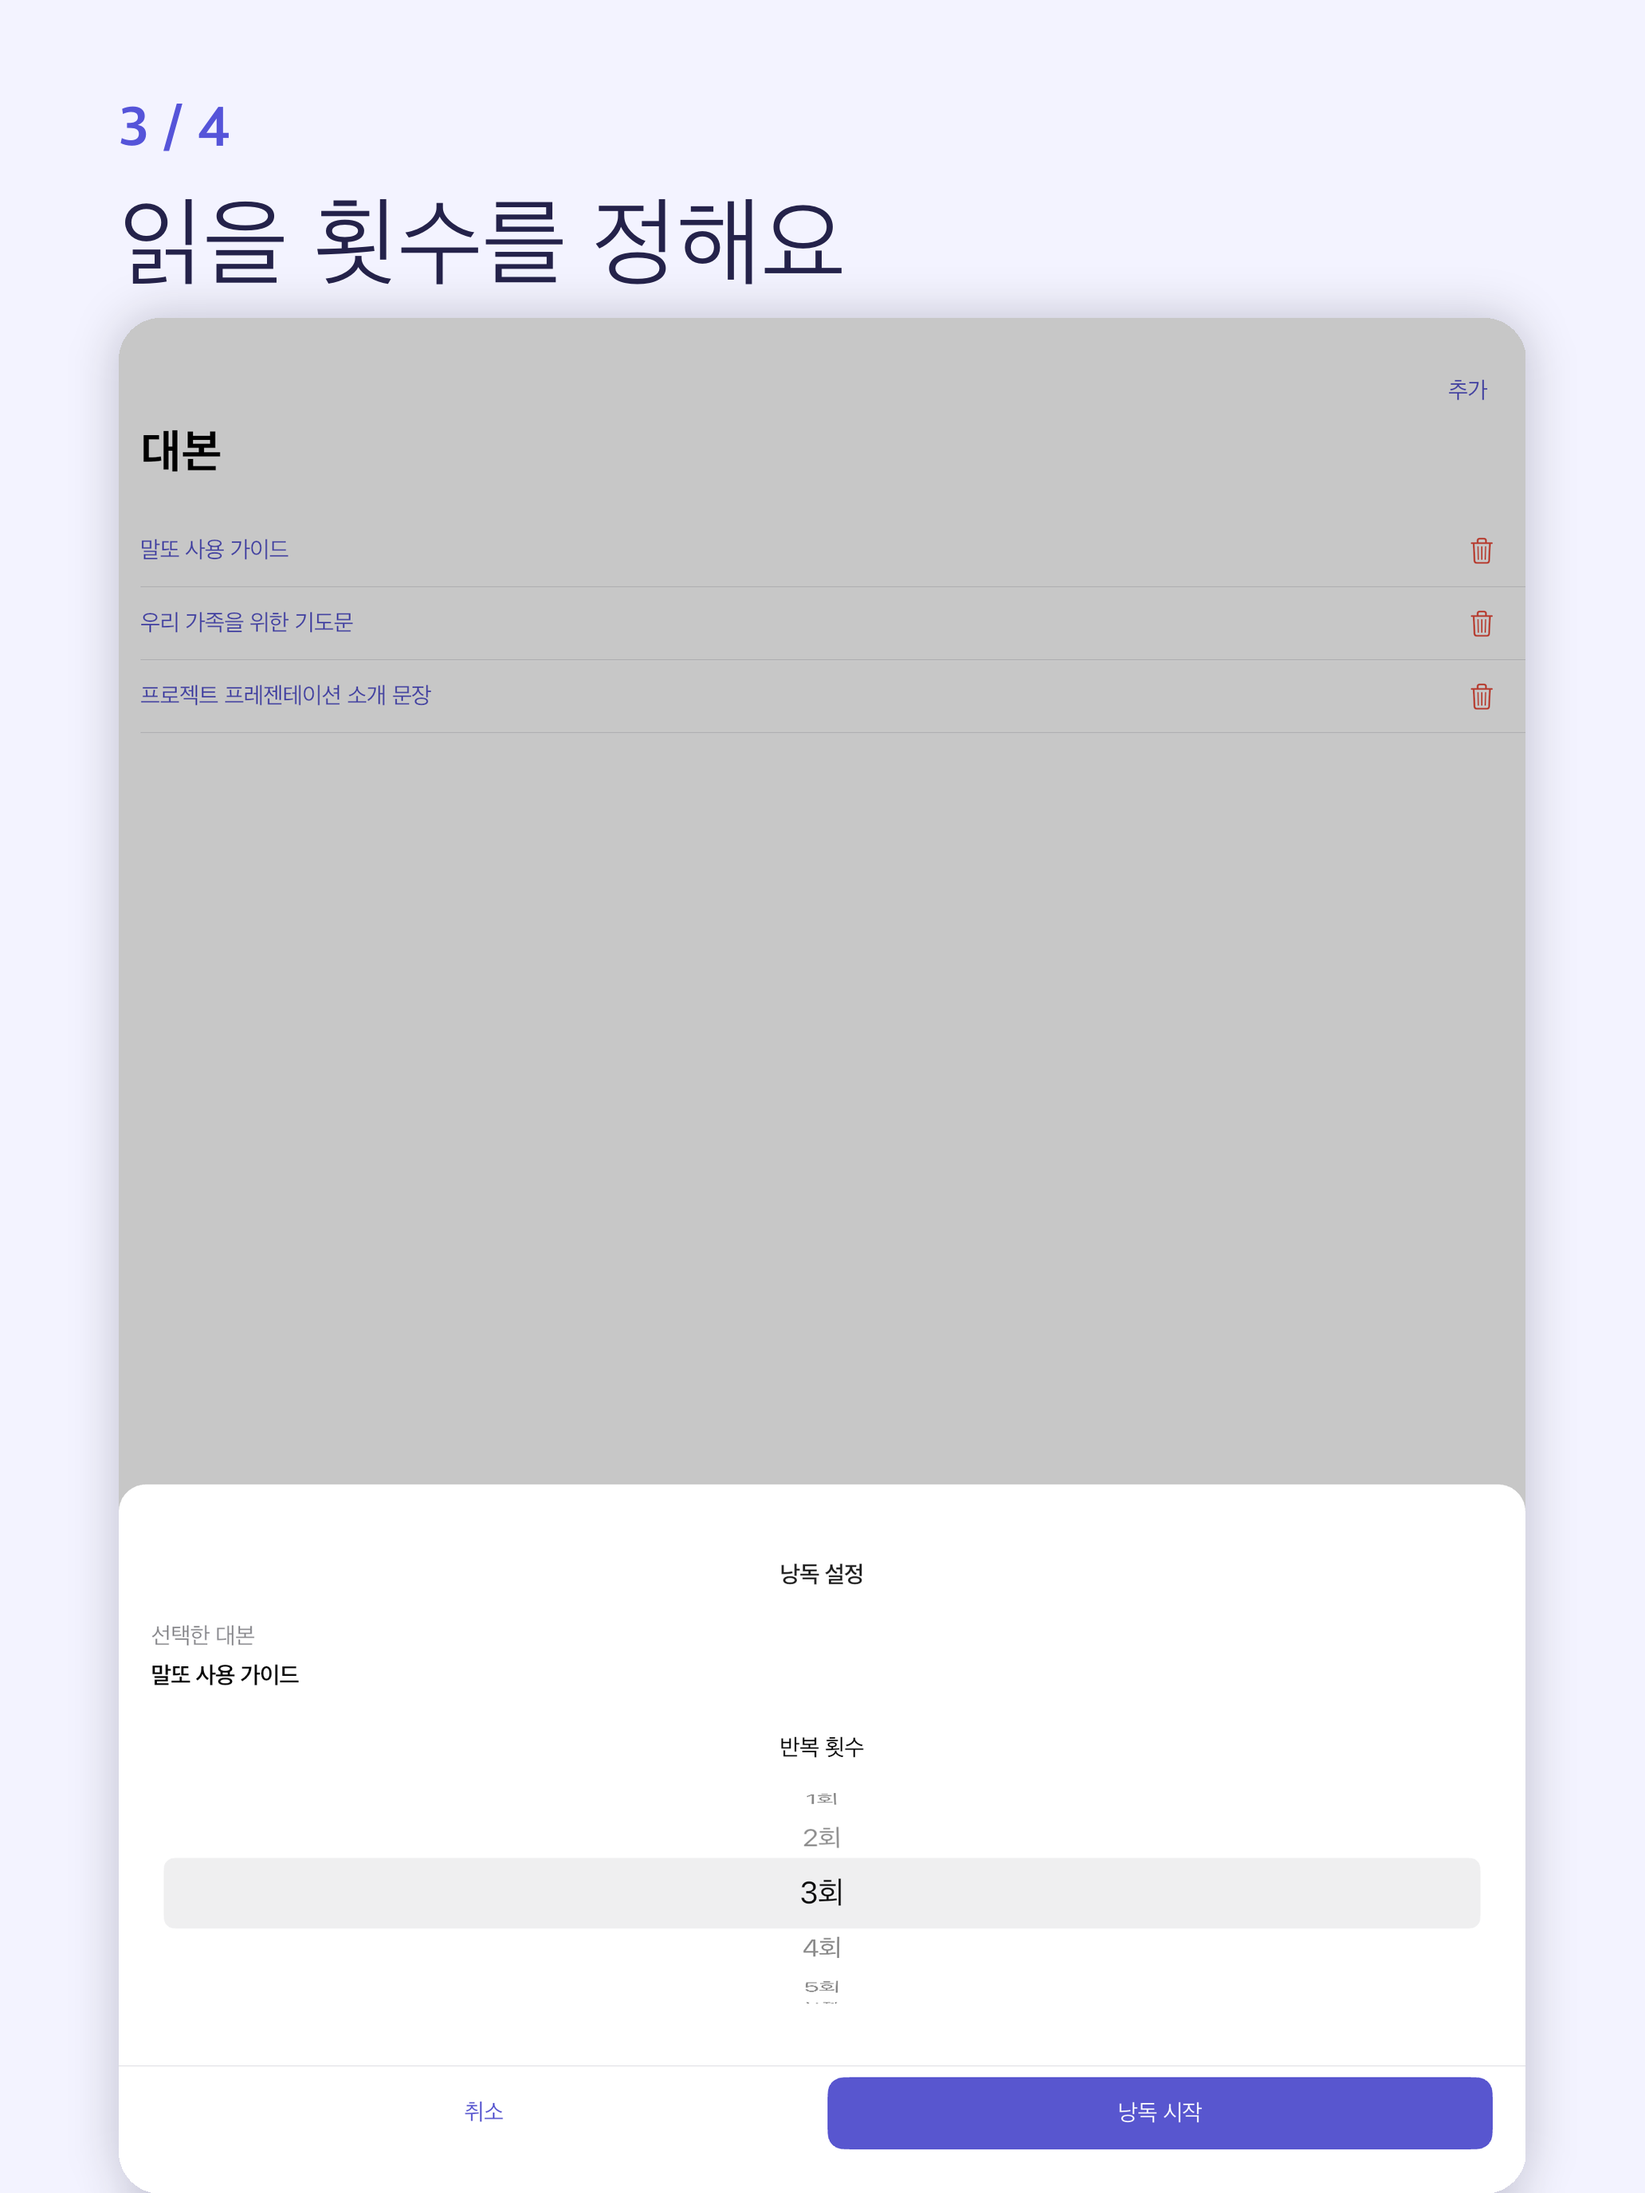
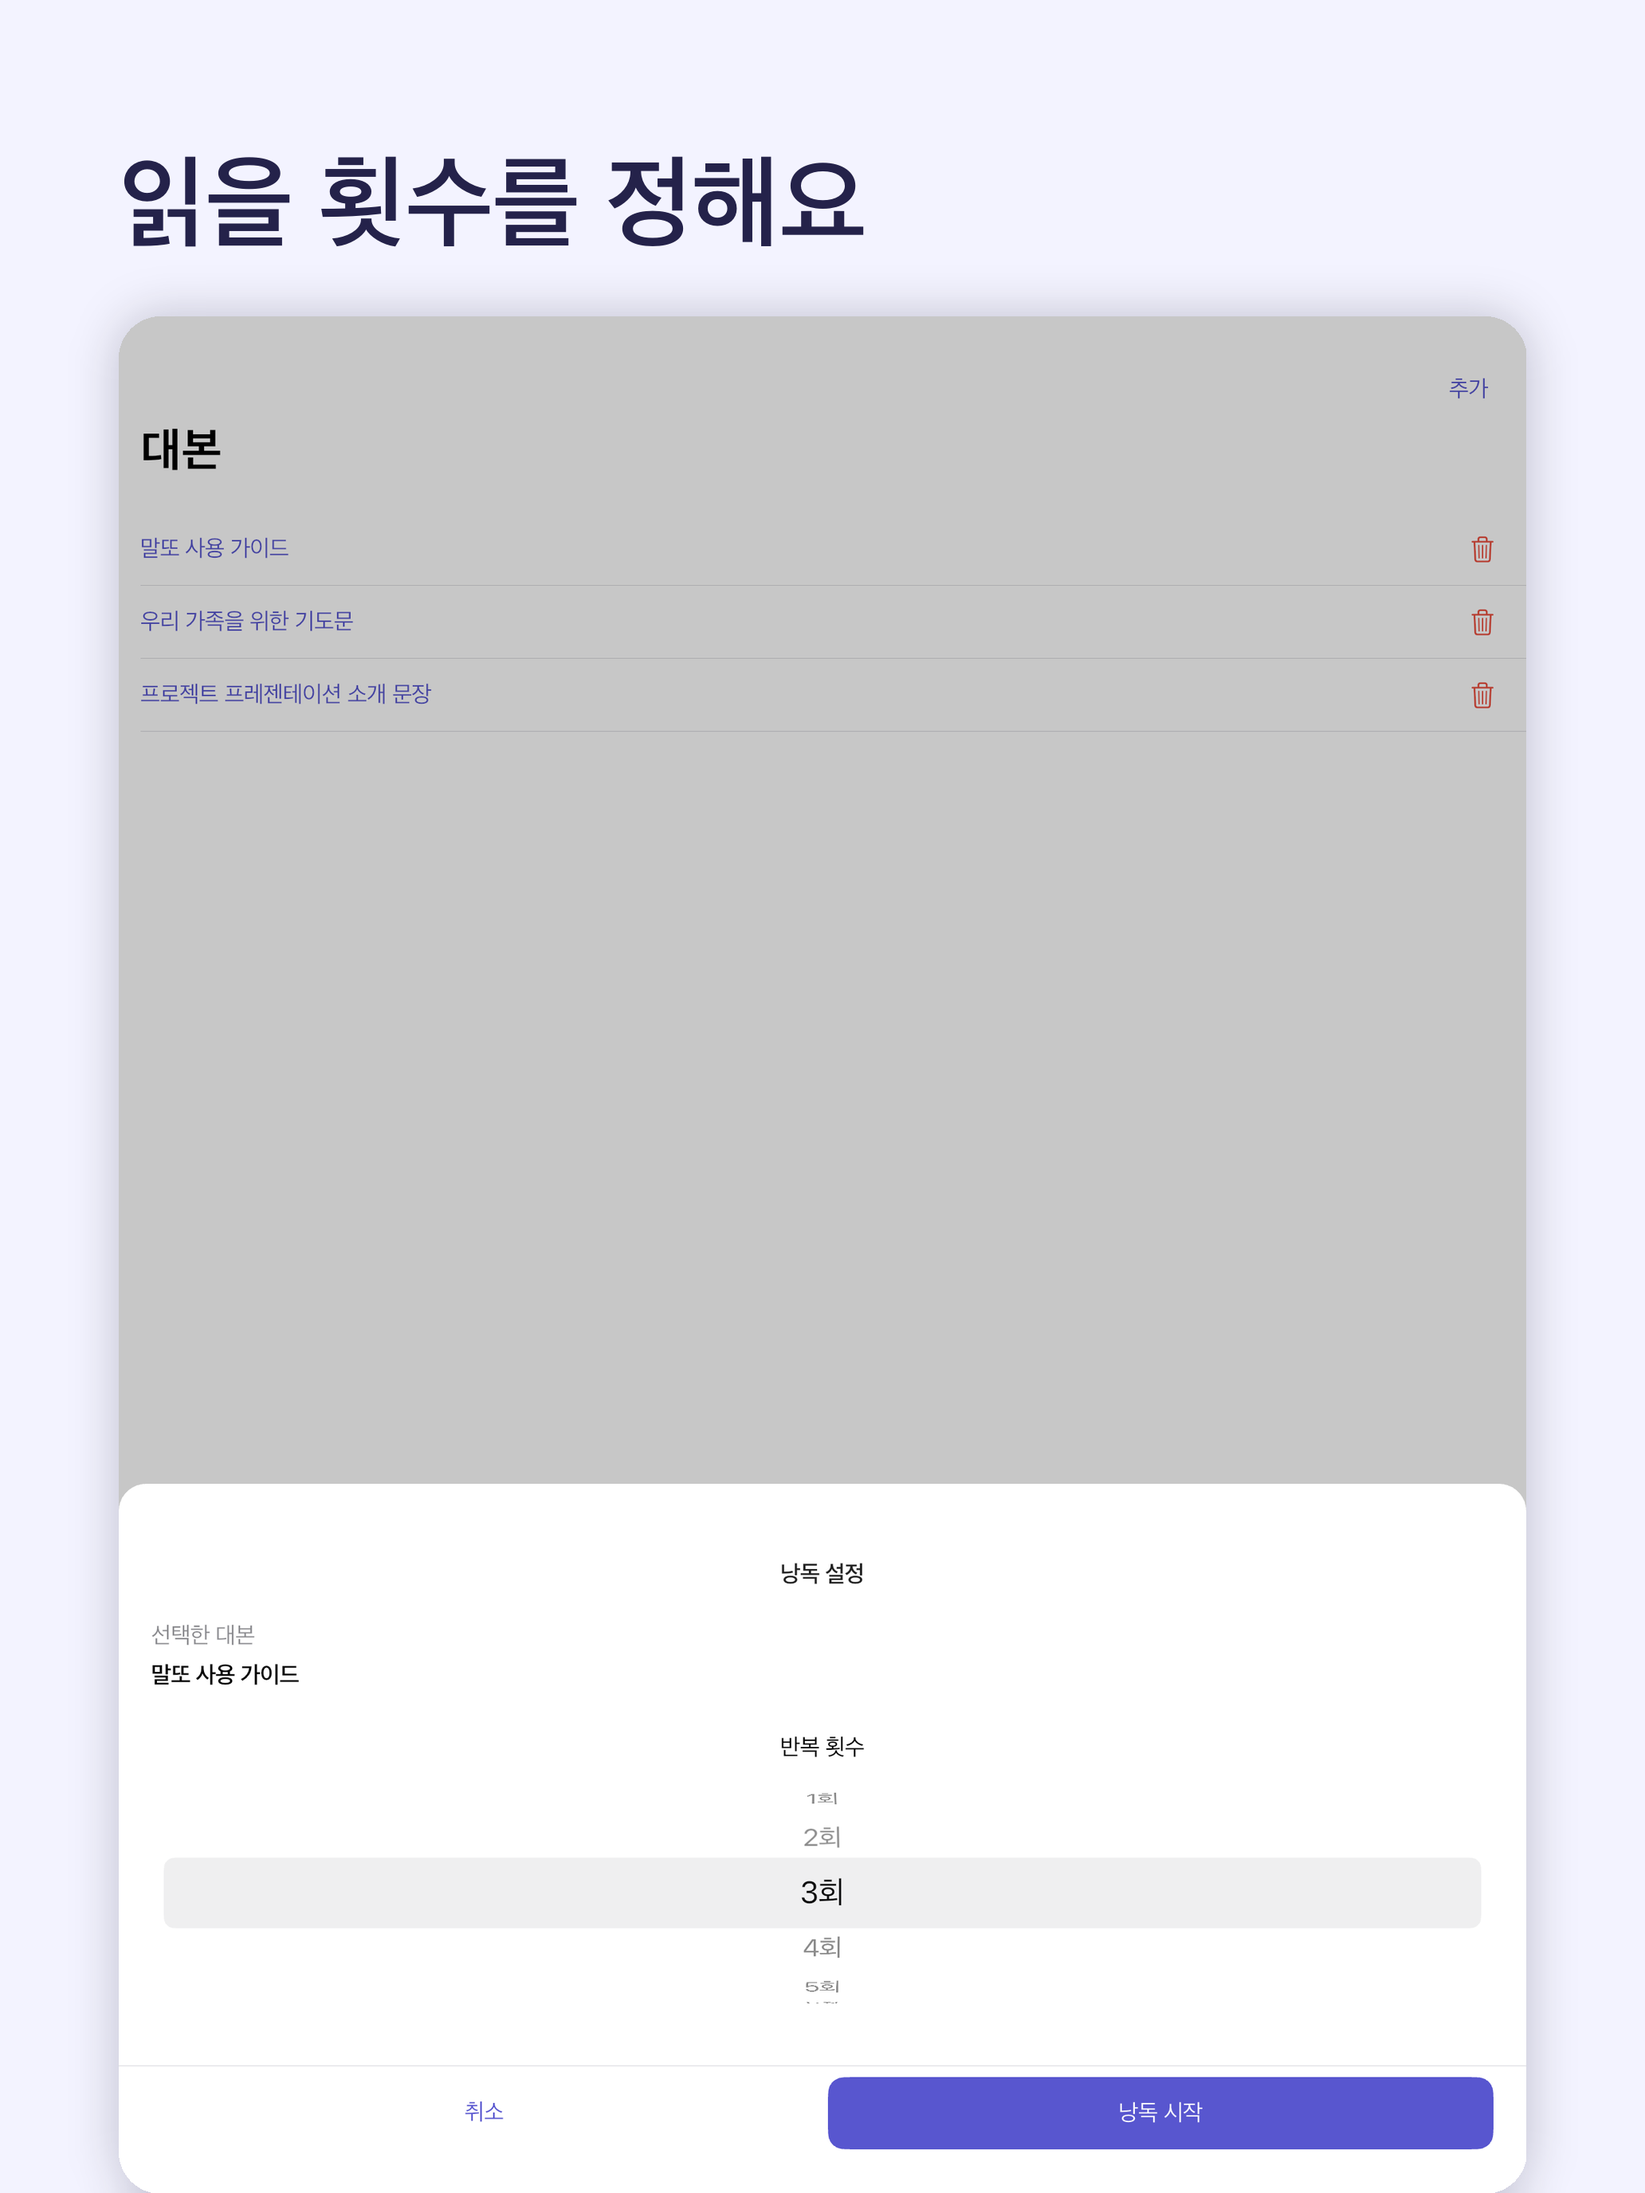
fix: Code Review 2

Changed region(s): [[0.062, 0.0312, 0.5271, 0.1562], [0.093, 0.25, 0.155, 0.3438], [0.093, 0.1875, 0.124, 0.2188]]

diff --git a/tool/store_assets/compose_promotional.py b/tool/store_assets/compose_promotional.py
@@ -30,7 +30,7 @@ def load_font(size: int, collection_index: int) -> ImageFont.FreeTypeFont:
 def fit_font(draw: ImageDraw.ImageDraw, text: str, width: int, initial: int) -> ImageFont.FreeTypeFont:
     size = initial
     while size >= 24:
-        font = load_font(size=size, collection_index=9)
+        font = load_font(size=size, collection_index=4)
         box = draw.textbbox((0, 0), text, font=font)
         if box[2] - box[0] <= width:
             return font
@@ -56,13 +56,12 @@ def compose(source_path: Path, destination: Path, target: dict, screen: dict, te
     canvas = Image.new("RGB", (width, height), template["background"])
     draw = ImageDraw.Draw(canvas)
     horizontal = round(width * 0.072)
-    header_height = round(height * 0.18)
-    step_font = load_font(size=max(28, round(width * 0.034)), collection_index=7)
-    headline_font = fit_font(draw, screen["headline"], width - 2 * horizontal, max(52, round(width * 0.059)))
-    draw.text((horizontal, round(header_height * 0.25)), screen["step"], fill=template["stepColor"], font=step_font)
-    draw.text((horizontal, round(header_height * 0.49)), screen["headline"], fill=template["headlineColor"], font=headline_font)
+    header_height = round(height * 0.16)
+    headline_font = fit_font(draw, screen["headline"], width - 2 * horizontal, max(54, round(width * 0.061)))
+    headline_y = round(header_height * 0.42)
+    draw.text((horizontal, headline_y), screen["headline"], fill=template["headlineColor"], font=headline_font)
     headline_box = draw.textbbox(
-        (horizontal, round(header_height * 0.49)),
+        (horizontal, headline_y),
         screen["headline"],
         font=headline_font,
     )
@@ -102,7 +101,7 @@ def contact_sheet(paths: list[Path], destination: Path, label: str) -> None:
     gap, title_height = 32, 92
     sheet = Image.new("RGB", (gap * 5 + 360 * 4, title_height + max(i.height for i in thumbs) + gap), "#ECECF4")
     draw = ImageDraw.Draw(sheet)
-    draw.text((gap, 26), label, fill="#24224A", font=ImageFont.truetype(str(font_path()), size=34, index=9))
+    draw.text((gap, 26), label, fill="#24224A", font=load_font(size=34, collection_index=4))
     for index, image in enumerate(thumbs):
         sheet.paste(image, (gap + index * (360 + gap), title_height))
     destination.parent.mkdir(parents=True, exist_ok=True)
@@ -127,8 +126,8 @@ def qa_contact_sheet(default_paths: list[Path], large_paths: list[Path], destina
         "#ECECF4",
     )
     draw = ImageDraw.Draw(sheet)
-    title_font = ImageFont.truetype(str(font_path()), size=32, index=9)
-    label_font = ImageFont.truetype(str(font_path()), size=26, index=9)
+    title_font = load_font(size=32, collection_index=4)
+    label_font = load_font(size=26, collection_index=2)
     draw.text((gap, 24), label, fill="#24224A", font=title_font)
     for row_index, (row_name, images) in enumerate(zip(("기본", "200%"), rows)):
         y = title_height + row_index * (row_height + gap)

diff --git a/docs/log/mar-52-store-promo-screenshots.md b/docs/log/mar-52-store-promo-screenshots.md
@@ -66,3 +66,6 @@ bundle exec fastlane validate_store_assets
 통합 테스트에서 명시하도록 수정하고 원본·홍보 결과를 다시 생성했다. 카피 하단이
 전체 높이의 20%를 넘으면 합성을 실패시키고, 실제 UI 하단을 자르던 오프셋도
 제거했다.
+
+Marco의 PR 리뷰에 따라 홍보 카피는 Apple SD Gothic Neo SemiBold로 정리하고
+불필요한 페이지 번호를 제거했다.
